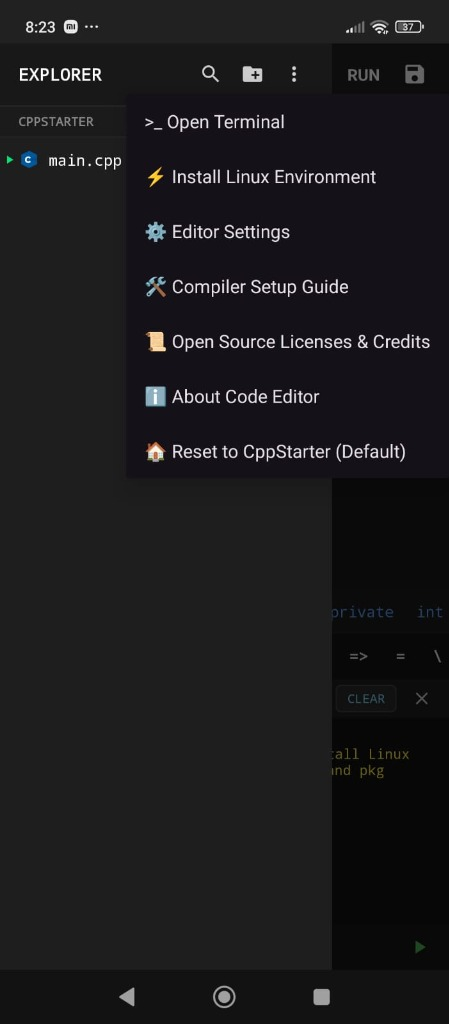
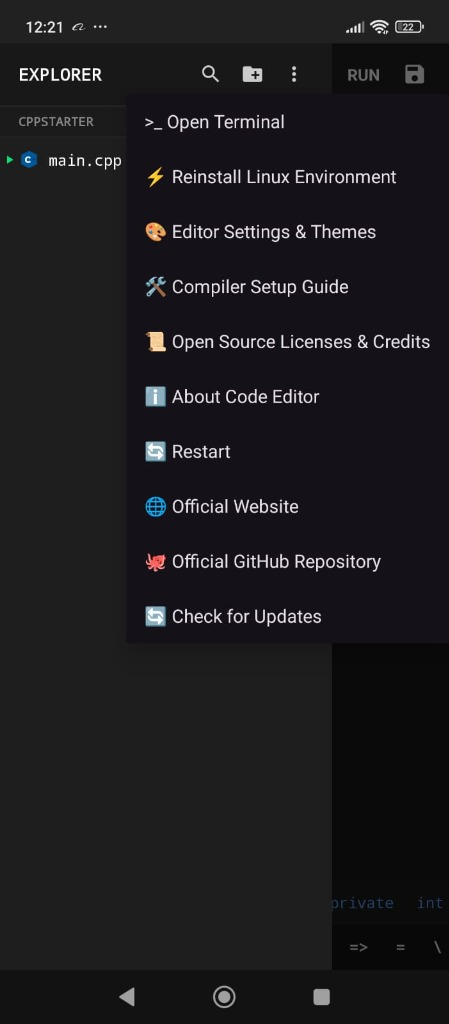
feat(ui): update Step 2 screenshot and guide with latest v1.3.4 three-dots menu

diff --git a/index.html b/index.html
@@ -282,9 +282,9 @@
           </div>
           <div class="step-info-col">
             <div class="step-badge">STEP 2 • THREE-DOTS (⋮) MENU</div>
-            <h3 class="step-title">Tap Three-Dots (⋮) &amp; Choose "Install Linux"</h3>
+            <h3 class="step-title">Tap Three-Dots (⋮) for Core Tools &amp; Actions</h3>
             <p class="step-desc">
-              Inside the Explorer panel header, tap the <strong>Three-Dots (⋮)</strong> menu button to reveal core IDE tools and environment actions.
+              Inside the Explorer panel header, tap the <strong>Three-Dots (⋮)</strong> menu button to reveal core IDE tools, theme selectors, and system actions.
             </p>
             <ul class="action-checklist">
               <li>
@@ -293,11 +293,11 @@
               </li>
               <li>
                 <div class="check-icon">✓</div>
-                <div><span class="pointer-pill green">Step 3</span> Tap <strong>"⚡ Install Linux Environment"</strong> from the popup list.</div>
+                <div><span class="pointer-pill green">Core Actions</span> Access <strong>"⚡ Install / Reinstall Linux Environment"</strong>, <strong>"🎨 Editor Settings &amp; Themes"</strong>, and <strong>"🛠 Compiler Setup Guide"</strong>.</div>
               </li>
               <li>
                 <div class="check-icon">✓</div>
-                <div><strong>Other Quick Tools:</strong> You can also access <code>&gt;_ Open Terminal</code>, <code>⚙ Editor Settings</code>, and <code>🛠 Compiler Setup Guide</code> directly here.</div>
+                <div><strong>Ecosystem &amp; Updates:</strong> 1-tap navigation to <code>🌐 Official Website</code>, <code>🐙 Official GitHub Repository</code>, and <code>🔄 Check for Updates</code> directly from the menu.</div>
               </li>
             </ul>
           </div>
